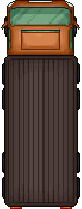
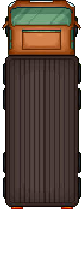
made the truck move
the stockmanager, shelves and truck are working

the products in the shelves are correct (except for the freezer shelf 6)
the stock manager is working and set (still needs to be because of the cash register)
the truck spawns in after a certain item gets below their half maximum and has an animation (not sure if remove truck works as i dont have a way to remove a box from the truck yet)

diff --git a/src/main/java/objects/truck/Truck.java b/src/main/java/objects/truck/Truck.java
@@ -1,16 +1,38 @@
 package objects.truck;
 
+import core.Renderable;
+import core.Simulation;
+import core.Updatable;
+import javafx.scene.canvas.GraphicsContext;
 import objects.box.Box;
 import objects.product.Product;
 import objects.product.ProductType;
+import javafx.scene.image.Image;
 
 import java.util.ArrayDeque;
 import java.util.EnumMap;
 import java.util.Queue;
 
-public class Truck {
+public class Truck implements Renderable, Updatable {
     // ==== VARIABLES ====
-    public boolean isTruckSpawned;
+    private boolean isTruckSpawned;
+    private Image sprite = new Image(getClass().getResource("/images/truck/Truck_Empty.png").toExternalForm());
+
+    // start location animation
+    private double x = 23;
+    private double y = -300;
+
+    //goal location
+    private double targetX;
+    private double targetY;
+
+    // moving
+    private boolean isMoving = false;
+    private double speed = 50;
+
+    // width and height of the sprite
+    private double width = 84;
+    private double height = 261;
 
     // automatically returns first available box and null when no box is available
     private final Queue<Box> boxes = new ArrayDeque<>();
@@ -33,9 +55,14 @@ public class Truck {
         boxes.add(b);
     }
 
-    // should spawn a truck
+    /// should spawn a truck
     public void SpawnTruck(EnumMap<ProductType, Integer> order){
 
+        // set the correct sprite
+
+        isTruckSpawned = true;
+
+        // create the order
         for(ProductType type : order.keySet()){
             int orderAmount = order.get(type);
             if (orderAmount > 0){
@@ -62,11 +89,95 @@ public class Truck {
             }   // if not 0 loop
         }   // for loop ends
 
+        // move the sprite to the correct spot
+        MoveTo(23, 64);
     }
+
+    /// removes the truck and changes its appearance
     public void RemoveTruck(){
+        if(boxes.poll() == null){
+            // if there are no more boxes change the sprite and move away
+            SetSpriteToEmpty();
+            MoveTo(23,-300);
+            isTruckSpawned = false;
+
+            // move the truck away
+        }
+    }
+
+    // ==== Sprite setting ====
+    ///Set the current sprite to the empty truck
+    private void SetSpriteToEmpty(){
+        sprite = new Image(getClass().getResource("/images/truck/Truck_Empty.png").toExternalForm());
+    }
+
+    /// set the current sprite to the full truck
+    private void SetSpriteToFull(){
+        sprite = new Image(getClass().getResource("/images/truck/Truck_Full.png").toExternalForm());
+    }
+
+    /// sets the moving variables
+    /// @param x    location to travel to x
+    /// @param y    location to travel to y
+    public void MoveTo(double x, double y){
+        this.targetX = x;
+        this.targetY = y;
+        this.isMoving = true;
+    }
+
+
+    // ==== Interface Renderable ====
+    @Override
+    public void render(GraphicsContext g) {
+        if (sprite != null){
+            g.drawImage(sprite, x, y, width, height);
+        }
 
     }
 
+    @Override
+    public float getX() {
+        return 0;
+    }
+
+    @Override
+    public float getY() {
+        return 0;
+    }
+
+    @Override
+    public void update(double delta, long now, Simulation s) {
+
+        if (!isMoving) return;
+
+        double dx = targetX - x;
+        double dy = targetY - y;
+
+        // Distance to destination
+        double distance = Math.sqrt(dx * dx + dy * dy);
+
+        // How far to travel this frame
+        double step = speed * delta;
+
+        // Arrived at destination
+        if (distance <= step) {
+            x = targetX;
+            y = targetY;
+            isMoving = false;
+
+            // when destination is reached change sprite
+            SetSpriteToFull();
+            return;
+        }
+
+        // Move in the direction of the destination
+        x += (dx / distance) * step;
+        y += (dy / distance) * step;
+
+        if (isMoving == false && isTruckSpawned == true && GetBox() == null){
+            RemoveTruck();
+        }
+    }
 }
 
 

diff --git a/src/main/java/core/Simulation.java b/src/main/java/core/Simulation.java
@@ -4,6 +4,7 @@ import core.logger.Logger;
 import core.logger.TagLogger;
 import core.timer.IntervalTimer;
 import objects.FloatingText.FloatingNumber;
+import objects.StockManager;
 import objects.customer.CustomerFactory;
 import objects.graph.Vertex.VertexID;
 import objects.groceryList.GroceryListFactory;
@@ -15,13 +16,22 @@ import objects.path.pathfinder.dijkstracache.DijkstraCachePathFinderStrategy;
 import objects.shelf.Shelf;
 import objects.shelf.ShelfManager;
 import objects.background.BackgroundLoader;
+import objects.truck.Truck;
 
 public class Simulation implements Updatable{
+
+    // ==== Variables ====
     private final Game game;
     public Graph graph;
 
+    // keep track how many shelves are filled
+    private int woodCount       = 0;
+    private int metalCount      = 0;
+    private int freezerCount    = 0;
+
     // Managers
     public ShelfManager shelfManager;
+    public StockManager stockManager = new StockManager();
 
     // Factories
     public GroceryListFactory groceryListFactory;
@@ -49,21 +59,31 @@ public class Simulation implements Updatable{
         // Create shelf manager
         shelfManager = new ShelfManager("/json/shelfs/shelfs.json", game);
 
-        // Fill shelves with "dummy" products for testing
+        // Fill shelves with products according to plan
         shelfManager.forEach((s) -> {
+
+            ProductType productType = null;
+            switch (s.getType()){
+
+                case WOOD -> {
+                    productType = woodCount < 6 ? ProductType.APPLE : ProductType.BREAD;
+                    woodCount ++;
+
+                }
+                case METAL -> {
+                    productType = metalCount < 3 ? ProductType.MEAT : ProductType.MILK;
+                    metalCount ++;
+
+                }
+                case COOL -> {
+                    productType = freezerCount < 3 ? ProductType.PIZZA : ProductType.ICE_SCREAM;
+                    freezerCount ++;
+                }
+                case STORAGE -> {return;}
+            }
+
             for(int i = 0; i < 9; i ++){
-
-                if(s.getType() == Shelf.ShelfType.WOOD){
-                    s.AddProduct(new Product(ProductType.APPLE));
-                }
-
-                if(s.getType() == Shelf.ShelfType.METAL){
-                    s.AddProduct(new Product(ProductType.MEAT));
-                }
-
-                if(s.getType() == Shelf.ShelfType.COOL){
-                    s.AddProduct(new Product(ProductType.PIZZA));
-                }
+                s.AddProduct(new Product(productType));
             }
         });
 
@@ -85,6 +105,15 @@ public class Simulation implements Updatable{
         // Create factories
         groceryListFactory = new GroceryListFactory(shelfManager);
         customerFactory = new CustomerFactory(groceryListFactory, graph.get(VertexID.SPAWN_POINT));
+
+        // add stock manager and remove stock
+        stockManager.ChangeProductStock(ProductType.APPLE, -40);
+        // checks if something is lower than half of the stock if so spawn a truck
+        Truck truck = new Truck();
+        game.addObject(truck);
+
+        truck.SpawnTruck(stockManager.GetRestockOrder());
+
     }
 
 

diff --git a/src/main/java/objects/StockManager.java b/src/main/java/objects/StockManager.java
@@ -15,6 +15,7 @@ public class StockManager {
     EnumMap<ProductType, Integer> stock =
             new EnumMap<>(ProductType.class);
 
+    // total maximum per product
     private final EnumMap<ProductType, Integer> maxStock =
             new EnumMap<>(ProductType.class);
 
@@ -42,11 +43,11 @@ public class StockManager {
     }
 
     /// Adds or removes products from stock
-    /// @param p        the product you want to change
+    /// @param pType    the type of product you want to change
     /// @param amount   the amount the stock will increase or decrease
-    public void ChangeProductStock(Product p, int amount){
+    public void ChangeProductStock(ProductType pType, int amount){
         // add amount of product to stock (can remove products by using negative numbers)
-        stock.merge(p.getpType(), amount, Integer::sum);
+        stock.merge(pType, amount, Integer::sum);
 }
 
     /// Checks on product type both enum maps stock and max stock and uses this to check if more than half of the products are sold, if so adds this to a new enum map

diff --git a/src/main/java/objects/product/ProductType.java b/src/main/java/objects/product/ProductType.java
@@ -4,12 +4,12 @@ import objects.shelf.Shelf;
 
 public enum ProductType{
     // enum values (can hold more information)
-    BREAD("Bread", Shelf.ShelfType.WOOD, 2),
-    MEAT("Meat", Shelf.ShelfType.METAL, 5),
-    MILK("Milk", Shelf.ShelfType.METAL, 3),
-    PIZZA("Pizza", Shelf.ShelfType.COOL, 10),
-    ICE_SCREAM("IceScream", Shelf.ShelfType.COOL, 5),
-    APPLE("Apple", Shelf.ShelfType.WOOD, 1);
+    BREAD       ("Bread",       Shelf.ShelfType.WOOD,   2),
+    MEAT        ("Meat",        Shelf.ShelfType.METAL,  5),
+    MILK        ("Milk",        Shelf.ShelfType.METAL,  3),
+    PIZZA       ("Pizza",       Shelf.ShelfType.COOL,   10),
+    ICE_SCREAM  ("IceScream",   Shelf.ShelfType.COOL,   5),
+    APPLE       ("Apple",       Shelf.ShelfType.WOOD,   1);
 
     // variables
     public final String name;

diff --git a/src/main/java/objects/product/Product.java b/src/main/java/objects/product/Product.java
@@ -20,7 +20,7 @@ public class Product implements ShelfItem {
         this.name   = pType.name;
         this.type   = pType.shelfType;
         this.price  = pType.price;
-        this.pType = pType;
+        this.pType  = pType;
 
         // type the name correctly as the image folder suggests
         sprite = new Image(getClass().getResource("/images/products/" + this.name + ".png").toExternalForm());

diff --git a/src/main/java/objects/shelf/Shelf.java b/src/main/java/objects/shelf/Shelf.java
@@ -60,7 +60,7 @@ public class Shelf implements Renderable, Updatable {
     }
 
     /// returns type of current shelf
-    /// @return
+    /// @return type of shelf
     public ShelfType getType() {
         return type;
     }

diff --git a/src/main/java/core/Game.java b/src/main/java/core/Game.java
@@ -65,7 +65,6 @@ public class Game extends javafx.application.Application {
         graphicsContext = canvas.getGraphicsContext2D();
 
 
-
         simulation = new Simulation(this);
         addObject(simulation);
 
